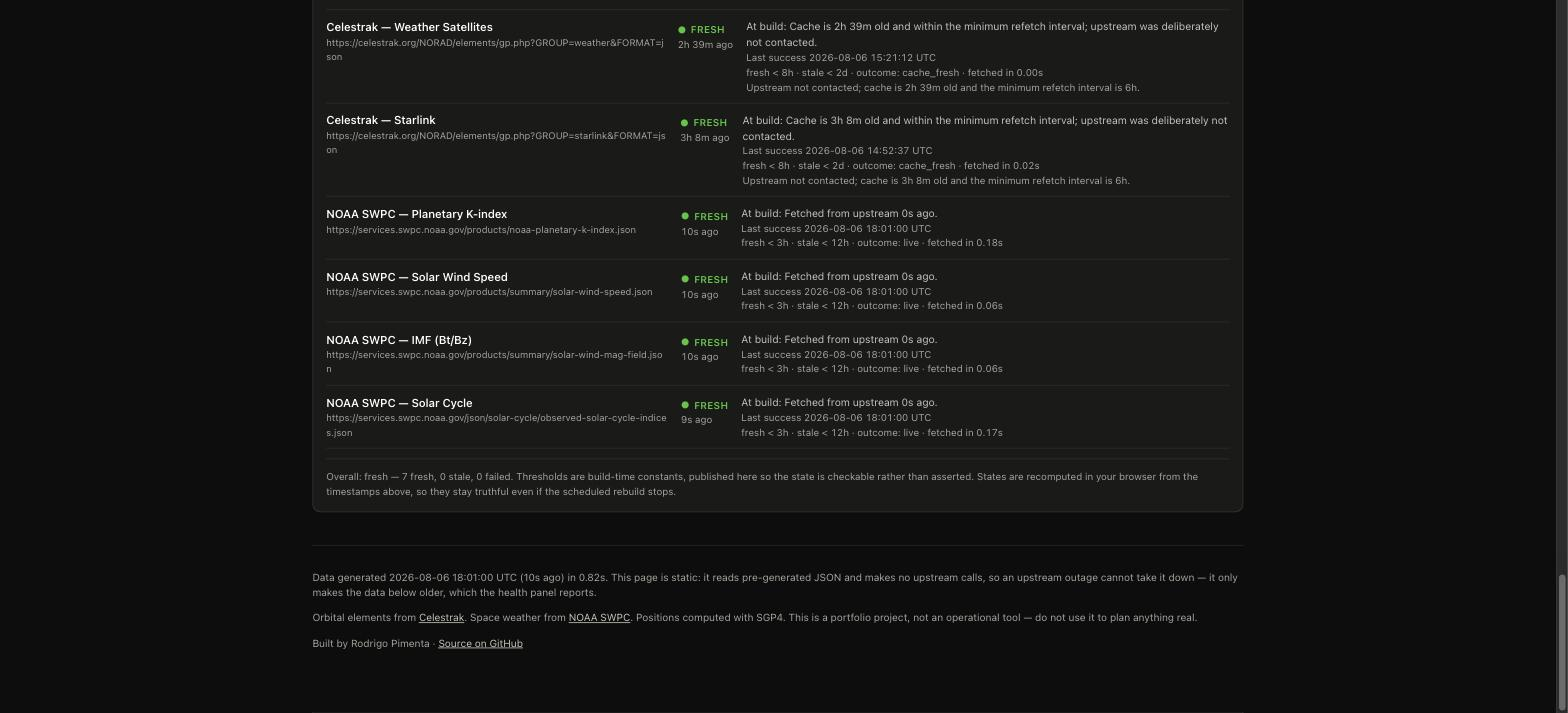
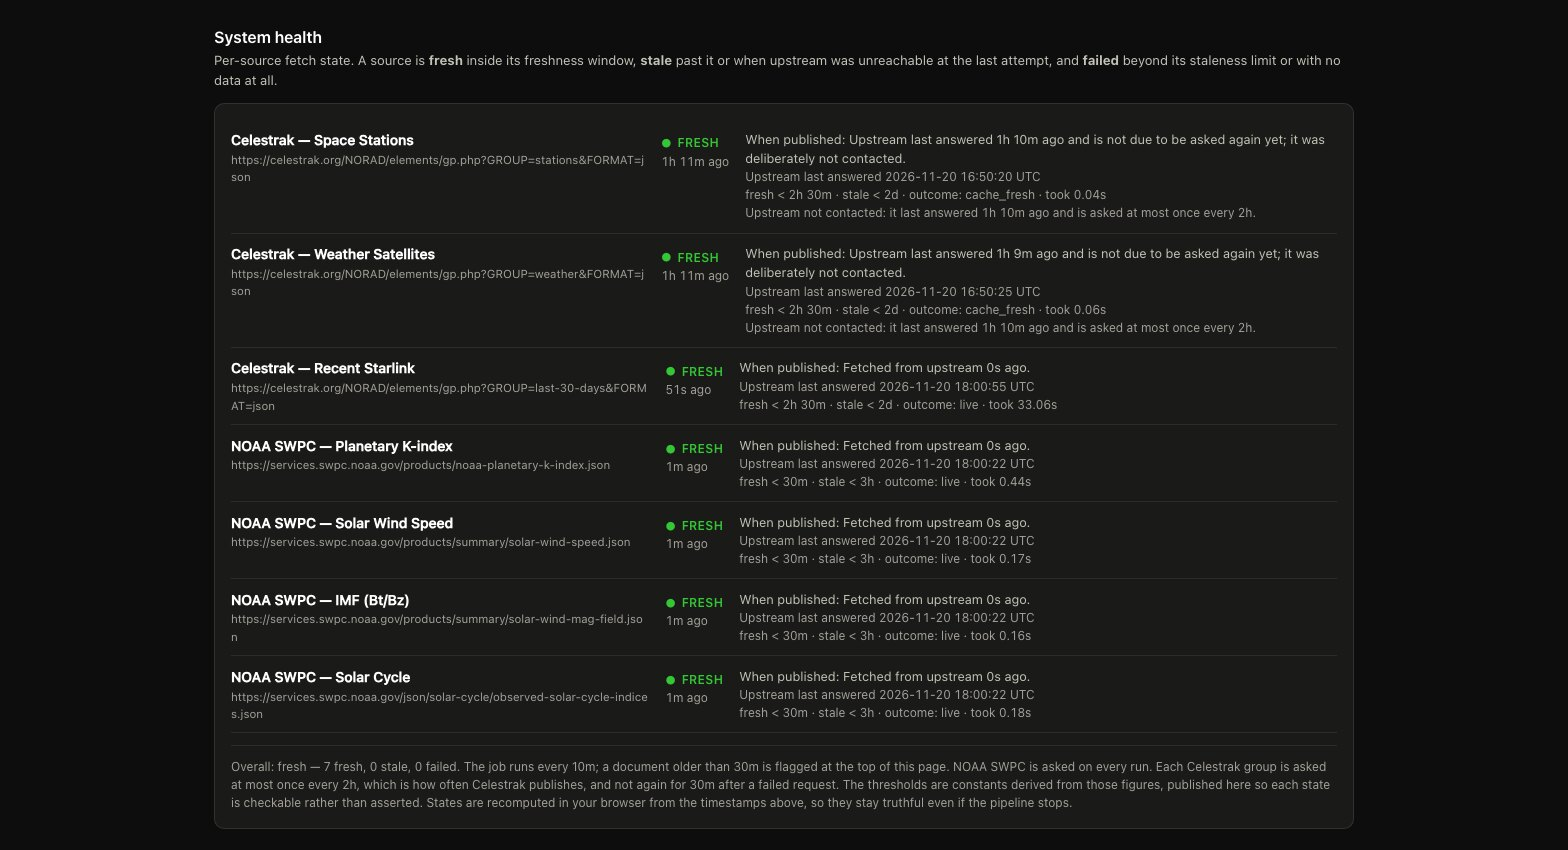
Screenshots from the day of the move
The dashboard and the health panel with all seven sources fresh (18:01 UTC), and the health
panel as it really was 45 minutes after the first run on Google Cloud, with Celestrak
answering 503 and nothing yet stored (16:15 UTC). The social preview image is retaken too.

diff --git a/README.md b/README.md
@@ -19,23 +19,26 @@ and the failures that forced it, which is the half of engineering a repo
 usually hides. That includes the first delivery architecture, which produced
 five production bugs and was replaced ([what broke](#what-broke-in-the-first-design)).
 
-![The Orbital Watch dashboard: operational assessment banner, space weather tiles, and Kp history chart](docs/dashboard.jpg)
+![The Orbital Watch dashboard on 20 November 2026: the masthead reads fresh, 7 of 7 sources fresh; operational assessment banner, space weather tiles and Kp history chart](docs/dashboard.jpg)
 
 The system health panel, which is the part worth looking at closely — every
 source reports its state, when upstream last answered, the thresholds that
 define that state, and how long the fetch took:
 
-![The system health panel: per-source state, last success time, freshness thresholds and fetch duration for all seven upstream sources](docs/health-panel.jpg)
+![The system health panel with all seven sources fresh: two Celestrak groups deliberately not contacted because they were asked 1 h 10 m earlier, the third fetched live in 33 seconds, four NOAA SWPC sources fetched live](docs/health-panel.jpg)
 
-And the same panel during a real degradation — NOAA SWPC unreachable, the site
-serving hours-old space weather and saying so. A dashboard that only ever
-shows seven green rows is just asserting its own health, not reporting it:
+And the same panel during a real degradation, three quarters of an hour
+after the job first ran on Google Cloud: Celestrak was answering HTTP 503 to
+everyone, the state store was still empty, and the page said exactly that. A
+dashboard that only ever shows seven green rows is just asserting its own
+health, not reporting it:
 
-![The health panel degraded: three Celestrak sources fresh, four NOAA SWPC sources stale with the connection error and the age of the stored data they are serving](docs/health-degraded.jpg)
+![The health panel degraded: three Celestrak sources failed, never succeeded, HTTP 503 Service Unavailable](docs/health-degraded.jpg)
 
-*These screenshots were taken before the November 2026 rebuild described
-below. The panels and the look are unchanged; the thresholds, the outcome
-names and some of the wording in the health panel are not.*
+*All three were taken on 20 November 2026, the day of the rebuild described
+below: the degraded one at 16:15 UTC, the others at 18:01 UTC. The 33-second
+fetch in the second image is Celestrak on a slow day, and the reason for
+[DECISIONS.md](DECISIONS.md) §33.*
 
 ---
 
